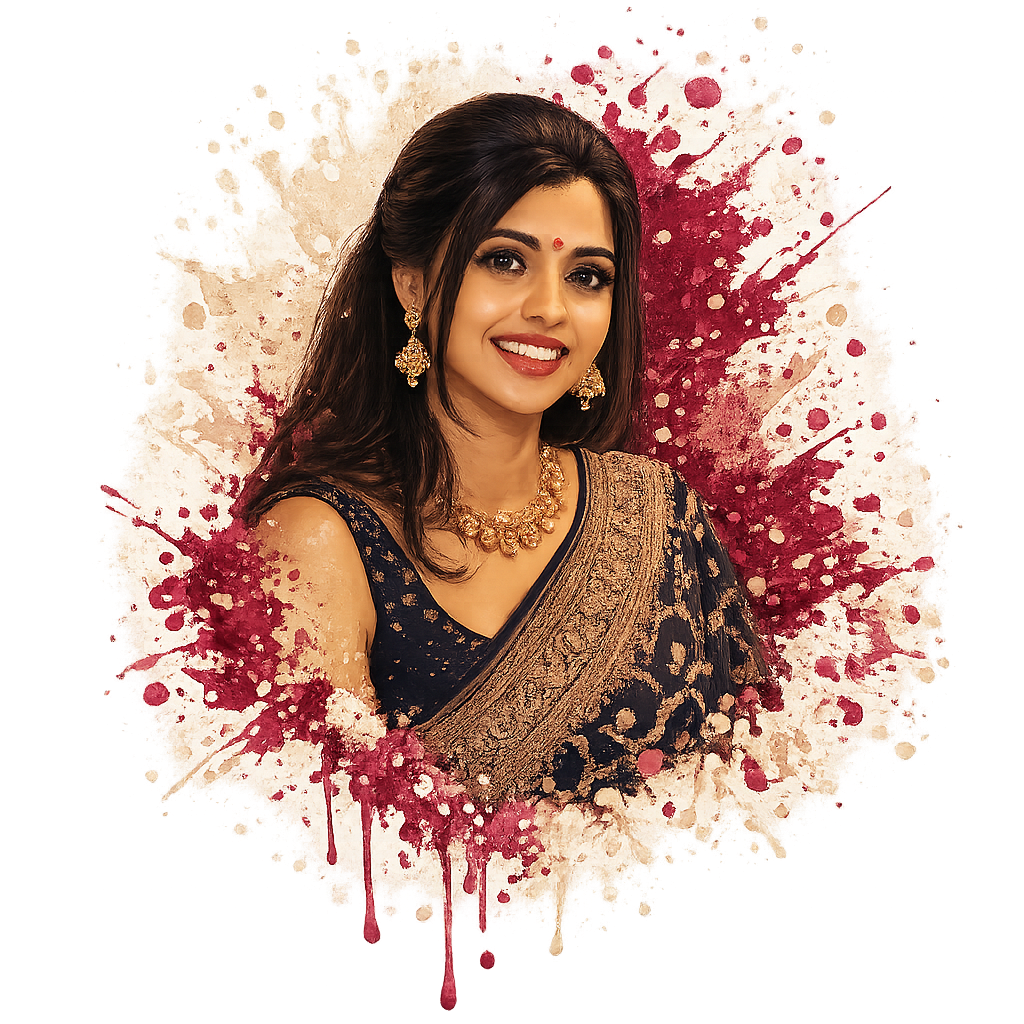
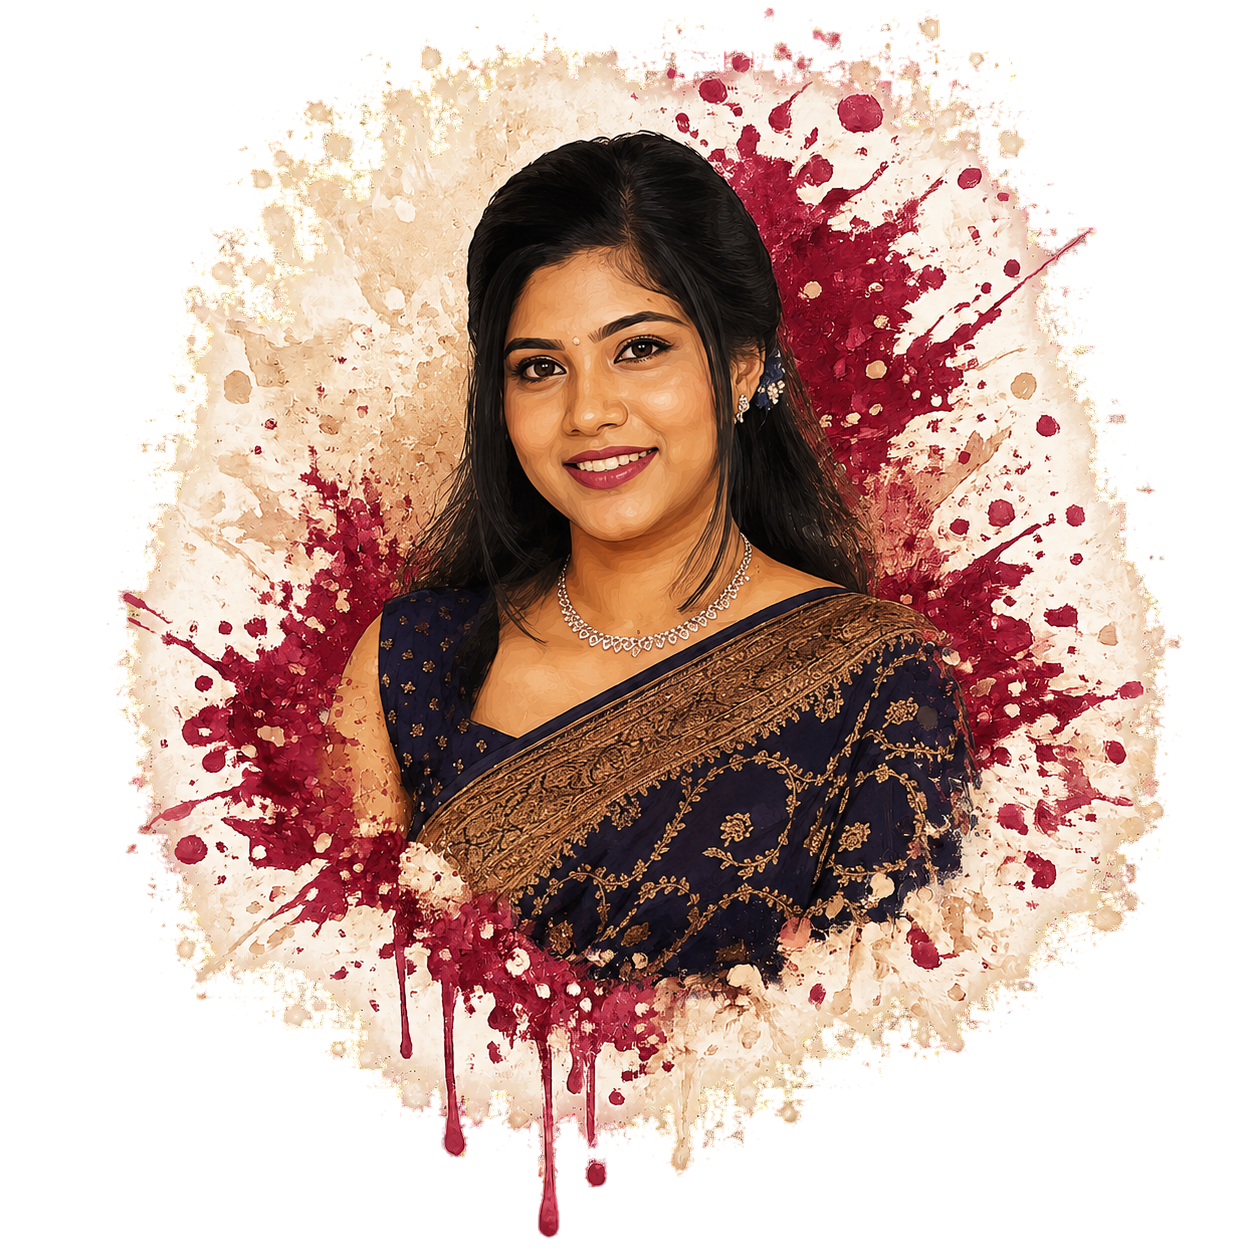
updated photos, gallery, conffeti

diff --git a/src/components/AmbientConfetti.vue b/src/components/AmbientConfetti.vue
@@ -6,33 +6,35 @@
       class="ambient-confetti__piece"
       :style="{
         left: p.left + '%',
-        backgroundColor: p.color,
         animationDelay: p.delay + 's',
         animationDuration: p.duration + 's',
         width: p.size + 'px',
-        height: p.size * (p.round ? 1 : 0.4) + 'px',
-        borderRadius: p.round ? '50%' : '2px',
+        '--sway': p.sway + 'px',
+        '--rot': p.initialRotate + 'deg',
       }"
-    ></span>
+    >
+      <img
+        :src="p.petal === 0 ? '/petal-pink.png' : '/petal-white.png'"
+        alt=""
+        class="ambient-confetti__img"
+      />
+    </span>
   </div>
 </template>
 
 <script setup>
 import { ref } from 'vue'
 
-const colors = ['#8b004a', '#dbbac4', '#c483a0', '#b45989', '#f2efe7']
-
-// A fixed pool of pieces, each with its own randomized, staggered, looping
-// fall animation — reads as a gentle continuous drift rather than a single burst.
 const pieces = ref(
   Array.from({ length: 28 }, (_, i) => ({
     id: i,
     left: Math.random() * 100,
-    color: colors[i % colors.length],
-    delay: Math.random() * 12,
-    duration: 9 + Math.random() * 6,
-    size: 5 + Math.random() * 6,
-    round: Math.random() > 0.5,
+    petal: Math.random() > 0.5 ? 0 : 1,
+    delay: -(Math.random() * 18),         // negative delay = already mid-fall on load, no hang
+    duration: 18 + Math.random() * 10,    // 18–28s, slow drift
+    size: 9 + Math.random() * 10,         // 9–19px, smaller than before
+    initialRotate: Math.random() * 360,
+    sway: (Math.random() - 0.5) * 50,
   }))
 )
 </script>
@@ -48,17 +50,40 @@ const pieces = ref(
 
 .ambient-confetti__piece {
   position: absolute;
-  top: -8%;
+  top: -5%;
   opacity: 0;
   animation-name: ambient-fall;
   animation-timing-function: linear;
   animation-iteration-count: infinite;
+  will-change: transform, opacity;
+}
+
+.ambient-confetti__img {
+  width: 100%;
+  height: auto;
+  display: block;
+  mix-blend-mode: multiply;
+  transform: rotate(var(--rot));
 }
 
 @keyframes ambient-fall {
-  0%   { transform: translateY(0) rotate(0deg); opacity: 0; }
-  6%   { opacity: 0.85; }
-  90%  { opacity: 0.85; }
-  100% { transform: translateY(112vh) rotate(360deg); opacity: 0; }
+  0% {
+    transform: translateY(0) translateX(0) rotate(0deg);
+    opacity: 0;
+  }
+  5% {
+    opacity: 0.78;
+  }
+  50% {
+    transform: translateY(56vh) translateX(var(--sway)) rotate(180deg);
+    opacity: 0.78;
+  }
+  92% {
+    opacity: 0.6;
+  }
+  100% {
+    transform: translateY(112vh) translateX(calc(var(--sway) * 2)) rotate(360deg);
+    opacity: 0;
+  }
 }
 </style>

diff --git a/index.html b/index.html
@@ -4,6 +4,22 @@
     <meta charset="UTF-8" />
     <meta name="viewport" content="width=device-width, initial-scale=1.0, maximum-scale=1.0, user-scalable=no" />
     <title>Alex &amp; Anit — We're Getting Married</title>
+
+    <!-- Open Graph Meta Tags for WhatsApp/Social Media -->
+    <meta property="og:title" content="Alex weds Anit">
+    <meta property="og:description" content="Celebrate with us as Alex & Anit unite their hearts and dreams, beginning a radiant new chapter filled with love, laughter, and the promise of forever.">
+    <meta property="og:image" content="https://alexanitwedding.vercel.app/wedding-preview.jpg">
+    <meta property="og:image:width" content="1200">
+    <meta property="og:image:height" content="630">
+    <meta property="og:url" content="https://alexanitwedding.vercel.app">
+    <meta property="og:type" content="website">
+
+    <!-- Twitter Card Meta Tags -->
+    <meta name="twitter:card" content="summary_large_image">
+    <meta name="twitter:title" content="Alex weds Anit">
+    <meta name="twitter:description" content="Celebrate with us as Alex & Anit unite their hearts and dreams, beginning a radiant new chapter filled with love, laughter, and the promise of forever.">
+    <meta name="twitter:image" content="https://alexanitwedding.vercel.app/wedding-preview.jpg">
+
     <link rel="preconnect" href="https://fonts.googleapis.com" />
     <link rel="preconnect" href="https://fonts.gstatic.com" crossorigin />
     <link href="https://fonts.googleapis.com/css2?family=Cormorant+Garamond:ital,wght@0,300;0,400;0,600;1,300;1,400&family=Great+Vibes&family=Cinzel:wght@400;500;600&family=Parisienne&display=swap" rel="stylesheet" />

diff --git a/src/components/GallerySection.vue b/src/components/GallerySection.vue
@@ -49,6 +49,12 @@ import { ref, onMounted, onUnmounted } from 'vue'
 const photos = [
   '/1.jpeg',
   '/2.jpeg',
+  '/3.jpeg',
+  '/4.jpeg',
+  '/5.jpeg',
+  '/6.jpeg',
+  '/7.jpeg',
+  '/8.jpeg',
 ]
 
 const current = ref(0)